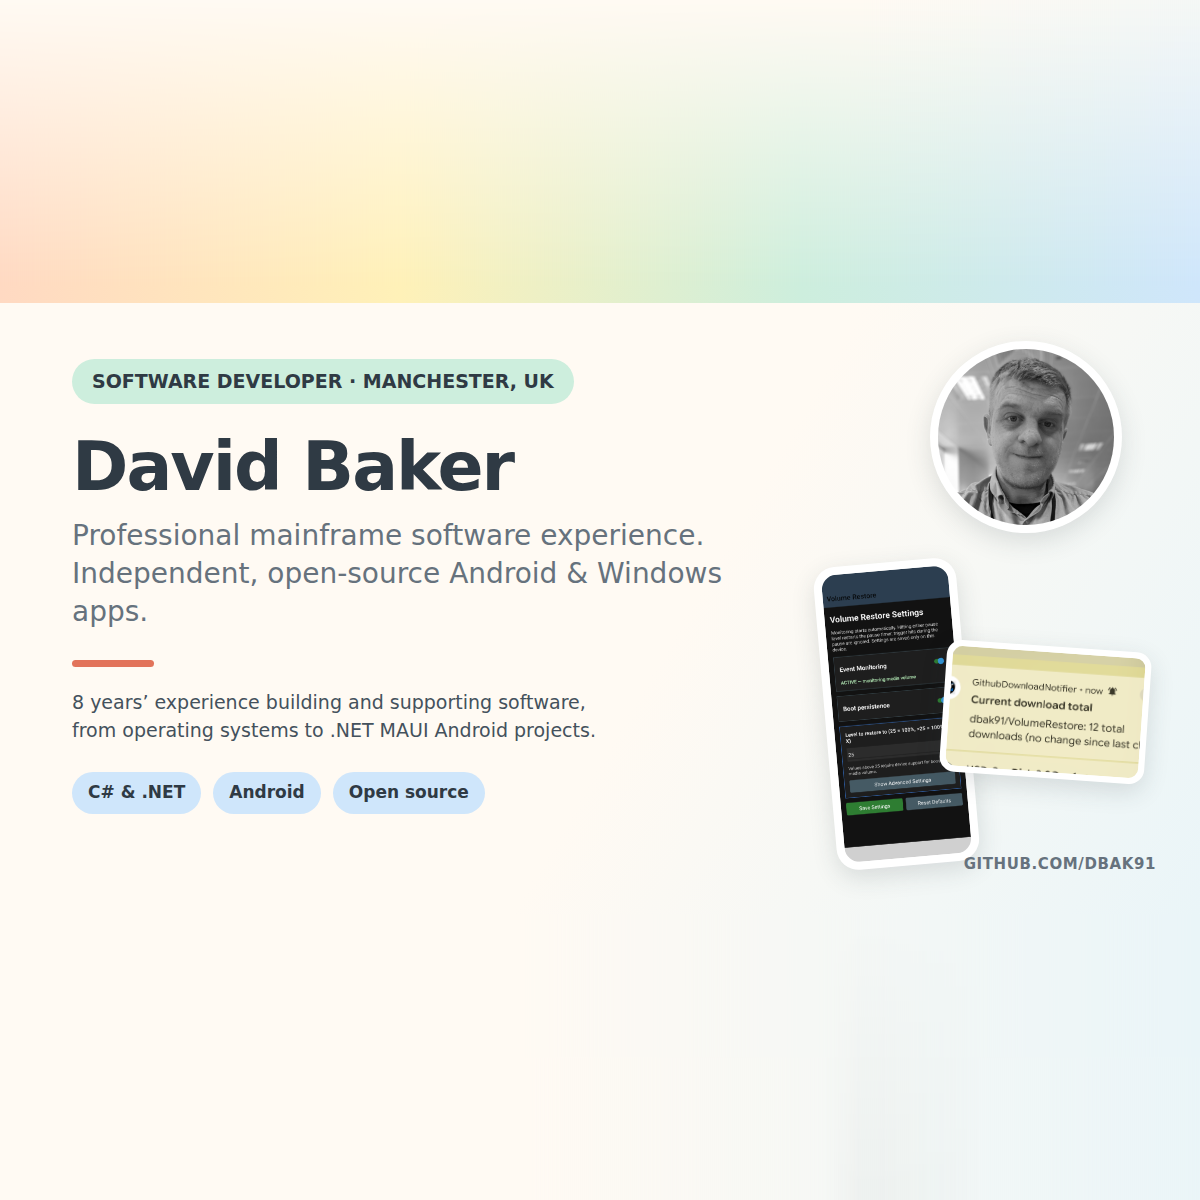
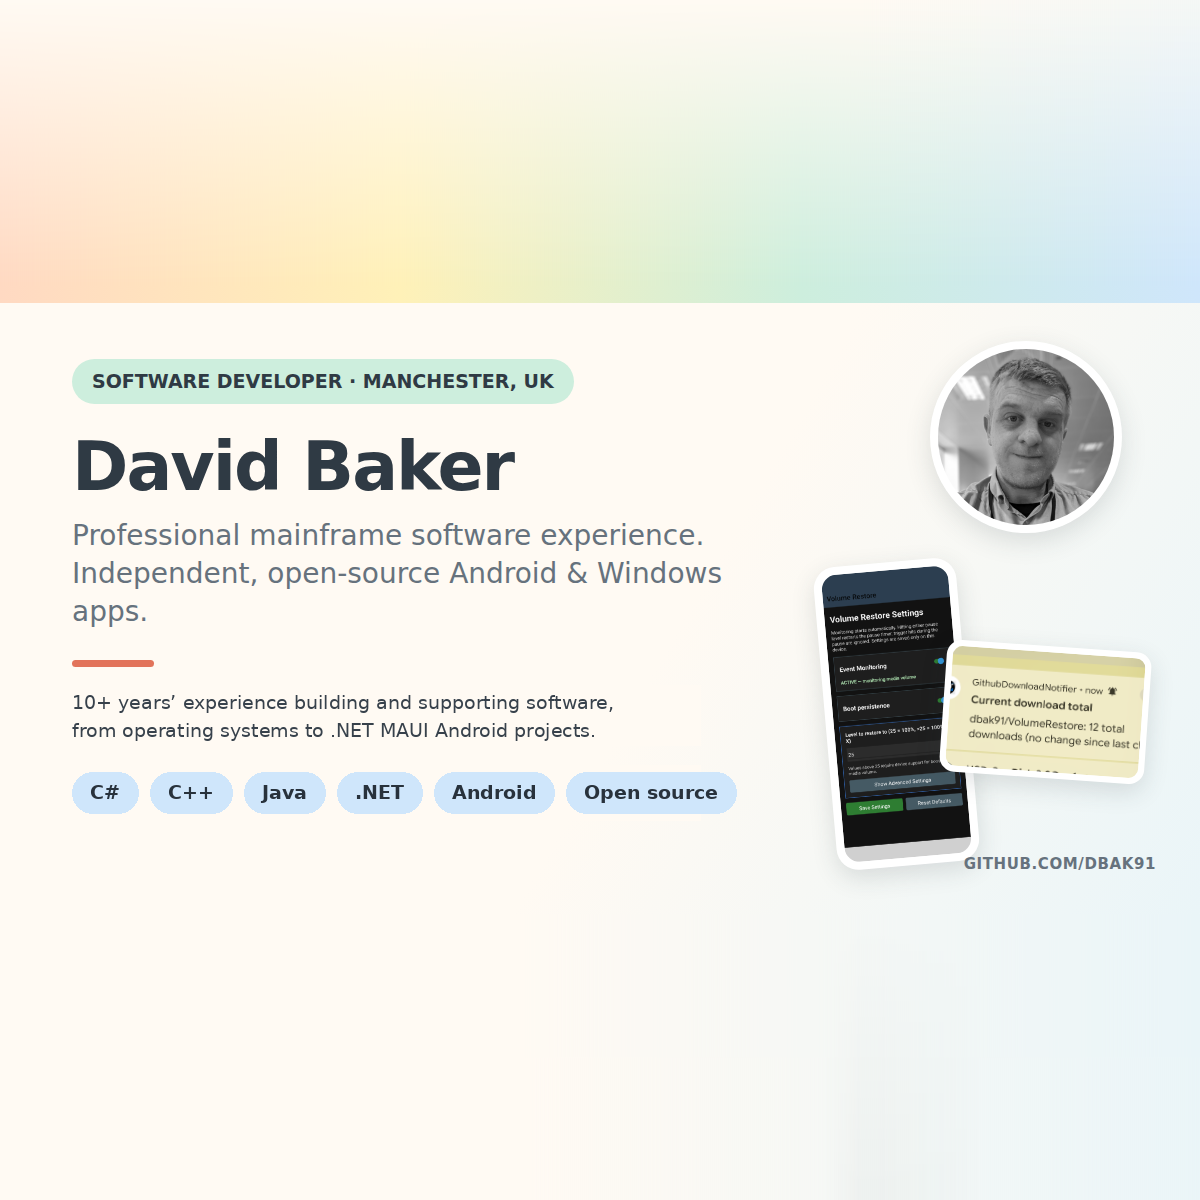
Apply remaining changes

Changed region(s): [[0.0617, 0.555, 0.6167, 0.6783]]

diff --git a/index.html b/index.html
@@ -4,7 +4,7 @@
 <meta charset="utf-8">
 <meta name="viewport" content="width=device-width,initial-scale=1">
 <title>David Baker (MeatIsMurder) · Software Developer</title>
-<meta name="description" content="Portfolio of David Baker, software developer with 10+ years’ professional mainframe experience and open-source Windows and Android apps in C# and .NET.">
+<meta name="description" content="Portfolio of David Baker, software developer with 10+ years’ professional mainframe experience and open-source Windows and Android apps in C#, C++, Java and .NET.">
 <meta property="og:type" content="website">
 <meta property="og:title" content="David Baker · Software Developer">
 <meta property="og:description" content="Software developer with 10+ years’ professional experience in mainframe systems, alongside open-source Windows and Android projects.">
@@ -49,7 +49,7 @@
 <article class="card"><h3>GitHubDownloadNotifier</h3><p>A .NET 10 Android app that monitors GitHub release-asset download counts and new releases, with configurable schedules, logging and WorkManager notifications.</p><a class="btn" href="projects/githubdownloadnotifier.html">View project</a></article>
 </div></section>
 <section id="skills"><h2>Skills</h2><div class="panel"><ul class="tags">
-<li>C#</li><li>.NET</li><li>.NET MAUI</li><li>Android</li><li>Windows</li><li>WorkManager</li><li>GitHub API</li><li>Python</li>
+<li>C#</li><li>C++</li><li>Java</li><li>.NET</li><li>.NET MAUI</li><li>Android</li><li>Windows</li><li>WorkManager</li><li>GitHub API</li><li>Python</li>
 </ul></div></section>
 <section id="contact"><h2>Contact</h2><div class="panel"><p>The best way to reach me is through GitHub.</p>
 <a class="btn" href="https://github.com/dbak91">github.com/dbak91</a></div></section>
